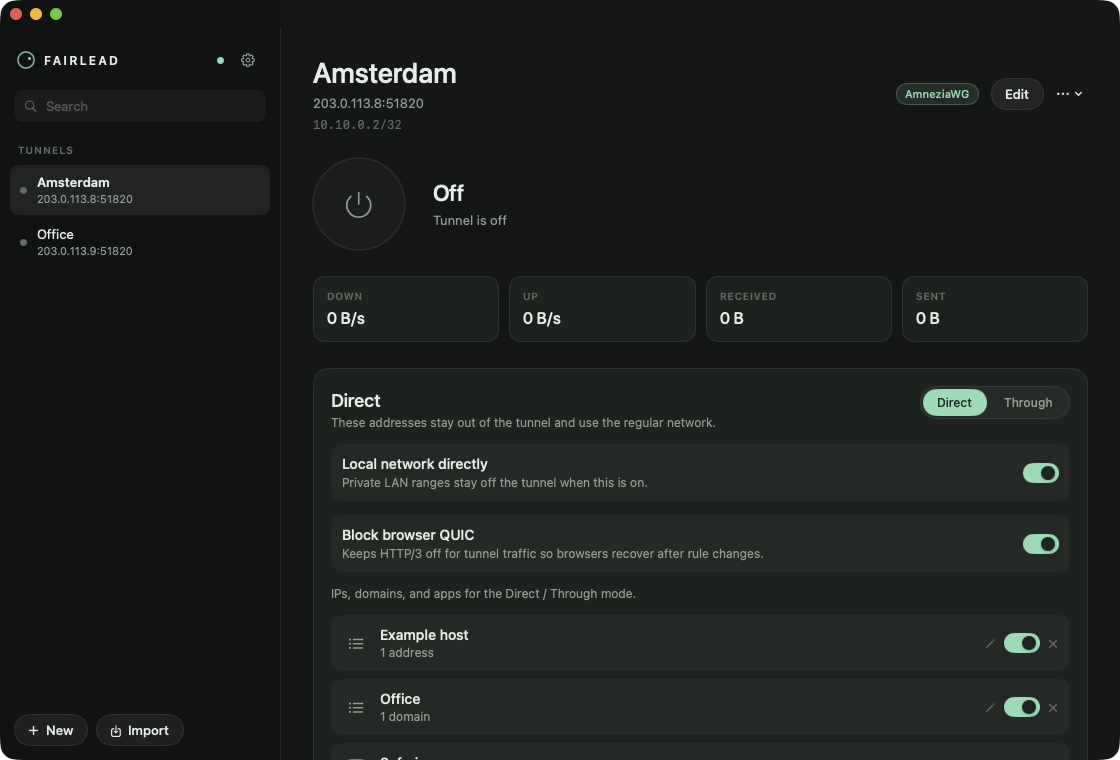
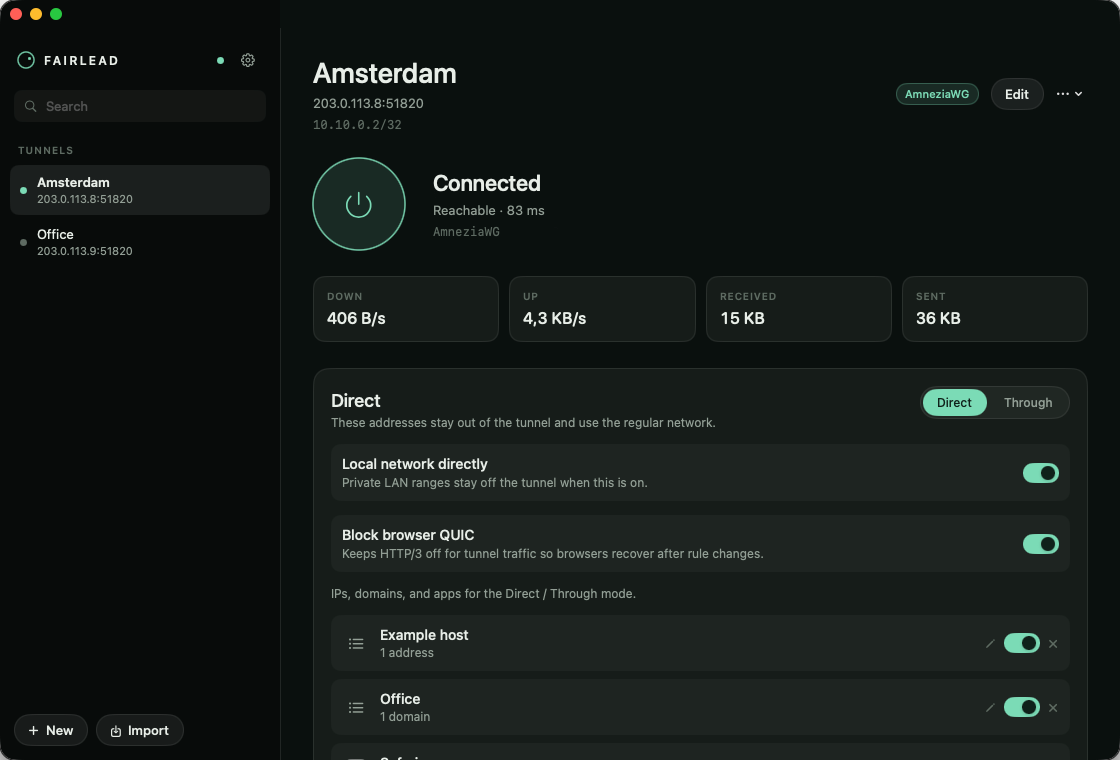
Landing page tweaks and screenshots update

diff --git a/docs/index.html b/docs/index.html
@@ -102,11 +102,27 @@
         }
 
         /* ---------- top bar ---------- */
+        .site-bar {
+            position: sticky;
+            top: 0;
+            z-index: 40;
+            background: transparent;
+            border-bottom: 1px solid transparent;
+            transition: background 180ms var(--ease), border-color 180ms var(--ease), backdrop-filter 180ms var(--ease);
+        }
+
+        .site-bar.is-stuck {
+            background: rgba(11, 13, 12, 0.78);
+            -webkit-backdrop-filter: blur(14px) saturate(1.2);
+            backdrop-filter: blur(14px) saturate(1.2);
+            border-bottom-color: var(--line);
+        }
+
         .bar {
             display: flex;
             align-items: center;
             justify-content: space-between;
-            padding: 22px 0 8px;
+            padding: 22px 0 14px;
         }
 
         .bar-mark {
@@ -254,35 +270,31 @@
         }
 
         .hero-stage {
+            /* pocket: clip to ~half the window so the rest tucks under Features */
+            --shot-w: min(100vw - 40px, 1240px);
+            --shot-h: calc(var(--shot-w) * 760 / 1120);
             position: relative;
             margin: 0 calc(50% - 50vw);
             width: 100vw;
+            max-height: calc(var(--shot-h) * 2 / 3);
             overflow: hidden;
         }
 
-        .hero-stage::before,
+        /* shade into the pocket lip */
         .hero-stage::after {
             content: "";
             position: absolute;
             left: 0;
             right: 0;
-            height: 96px;
+            bottom: 0;
+            height: 88px;
             z-index: 2;
             pointer-events: none;
-        }
-
-        .hero-stage::before {
-            top: 0;
-            background: linear-gradient(to bottom, var(--bg), transparent);
-        }
-
-        .hero-stage::after {
-            bottom: 0;
-            height: 140px;
-            background: linear-gradient(to top, var(--bg) 18%, transparent);
+            background: linear-gradient(to top, rgba(11, 13, 12, 0.92), transparent);
         }
 
         .hero-shot {
+            position: relative;
             width: min(100%, 1280px);
             margin: 0 auto;
             padding: 0 20px;
@@ -290,15 +302,18 @@
 
         .hero-shot img {
             width: 100%;
-            border-radius: var(--radius) var(--radius) 0 0;
             border: 1px solid var(--line);
-            border-bottom: 0;
-            box-shadow: 0 40px 80px rgba(0, 0, 0, 0.45);
+            border-radius: var(--radius);
+            background: var(--bg-elev);
+            box-shadow:
+                0 4px 12px rgba(0, 0, 0, 0.25),
+                0 28px 64px -12px rgba(0, 0, 0, 0.55);
         }
 
         /* ---------- sections ---------- */
         section {
             padding: 88px 0;
+            scroll-margin-top: 72px;
         }
 
         .section-kicker {
@@ -329,9 +344,14 @@
 
         /* ---------- feature strip ---------- */
         .features {
+            position: relative;
+            z-index: 3;
             border-top: 1px solid var(--line);
             border-bottom: 1px solid var(--line);
-            background: linear-gradient(180deg, rgba(18, 22, 20, 0.55), transparent);
+            /* solid lip so the clipped shot reads as tucked under this panel */
+            background:
+                linear-gradient(180deg, var(--bg) 0%, var(--bg) 72px, transparent 220px),
+                linear-gradient(180deg, rgba(18, 22, 20, 0.55), transparent);
         }
 
         .feature-list {
@@ -402,7 +422,8 @@
         }
 
         .frame {
-            border-radius: var(--radius);
+            /* closer to macOS window corners than the hero radius */
+            border-radius: 10px;
             border: 1px solid var(--line);
             background: var(--bg-elev);
             overflow: hidden;
@@ -640,9 +661,9 @@
         }
     </style>
 </head>
-<body>
-    <div class="wrap">
-        <header class="bar">
+<body id="top">
+    <header class="site-bar">
+        <div class="wrap bar">
             <a class="bar-mark" href="#top" aria-label="Fairlead home">
                 <img src="icon.png" width="36" height="36" alt="">
                 <span>Fairlead</span>
@@ -650,17 +671,18 @@
             <nav class="bar-nav" aria-label="Primary">
                 <a href="#features">Features</a>
                 <a href="#product">Product</a>
+                <a href="#download">Download</a>
                 <a class="btn btn-secondary ghost" href="https://github.com/razor-4eg/fairlead">GitHub</a>
             </nav>
-        </header>
-    </div>
+        </div>
+    </header>
 
-    <main id="top">
+    <main>
         <section class="hero">
             <div class="wrap">
                 <h1 class="brand">Fair<em>lead</em></h1>
-                <p class="lede">Choose what rides the tunnel.</p>
-                <p class="sub">WireGuard and AmneziaWG for macOS and Windows — import a config, connect, and keep the rest of the network yours.</p>
+                <p class="lede">Choose what goes through the tunnel.</p>
+                <p class="sub">WireGuard and AmneziaWG client for macOS and Windows. Import a config, connect, and decide what uses the tunnel.</p>
                 <div class="cta">
                     <a class="btn btn-primary" href="https://github.com/razor-4eg/fairlead/releases">
                         <svg viewBox="0 0 16 16" aria-hidden="true" fill="currentColor">
@@ -683,36 +705,36 @@
         <section class="features" id="features">
             <div class="wrap">
                 <p class="section-kicker reveal">Routing</p>
-                <h2 class="section-title reveal">Honest paths, not cargo-cult VPN theater.</h2>
-                <p class="section-copy reveal">Allowed IPs still define what the peer can carry. Fairlead decides which of your traffic actually uses the tunnel — by address, domain, or running app.</p>
+                <h2 class="section-title reveal">Route by IP, domain, or app.</h2>
+                <p class="section-copy reveal">Pick what goes through the tunnel and what stays on your normal network. Change the list while you’re connected.</p>
 
                 <ol class="feature-list">
                     <li class="reveal">
                         <span class="feature-num">01</span>
                         <div>
                             <h3>WireGuard &amp; AmneziaWG</h3>
-                            <p>One client for both. Import <code>.conf</code>, JSON shares, or Amnezia <code>vpn://</code> links. Amnezia configs show an AmneziaWG badge.</p>
+                            <p>One app for both. Import <code>.conf</code>, JSON, or Amnezia <code>vpn://</code> links — or just drag them onto the window.</p>
                         </div>
                     </li>
                     <li class="reveal">
                         <span class="feature-num">02</span>
                         <div>
                             <h3>Direct / Through</h3>
-                            <p>Exclude a list from the tunnel, or send only that list through it. Rules apply while connected — the engine restarts cleanly so routes stay honest.</p>
+                            <p>Exclude a list from the tunnel, or send only that list through it. Rules apply while connected.</p>
                         </div>
                     </li>
                     <li class="reveal">
                         <span class="feature-num">03</span>
                         <div>
                             <h3>Apps, domains, LAN</h3>
-                            <p>Match programs by path, keep local network off the tunnel, and optionally block QUIC so browsers stay on TCP when you need them to.</p>
+                            <p>Match apps by path, keep local network off the tunnel, block browser QUIC if you need TCP to behave.</p>
                         </div>
                     </li>
                     <li class="reveal">
                         <span class="feature-num">04</span>
                         <div>
-                            <h3>Status you can trust</h3>
-                            <p>Connected means the system path actually uses the tunnel. Live rates, totals, and menu bar / tray so closing the window never drops you.</p>
+                            <h3>Live status</h3>
+                            <p>Rates, totals, and a real Connected state. Close the window — it stays in the menu bar or tray and keeps the tunnel up.</p>
                         </div>
                     </li>
                 </ol>
@@ -722,14 +744,14 @@
         <section id="product">
             <div class="wrap">
                 <p class="section-kicker reveal">Product</p>
-                <h2 class="section-title reveal">Built like a tool, not a brochure.</h2>
-                <p class="section-copy reveal">Configs stay on this computer. Keys never leave. The helper elevates only to manage the tunnel.</p>
+                <h2 class="section-title reveal">Configs stay on this computer.</h2>
+                <p class="section-copy reveal">Keys don’t go anywhere. Admin rights only for the tunnel helper.</p>
 
                 <div class="views">
                     <article class="view reveal">
                         <div class="view-copy">
-                            <h3>Routes that mean something</h3>
-                            <p>Add IPs, domains, or apps. Flip Direct and Through without rewriting the peer config. Each rule can sleep without being deleted.</p>
+                            <h3>Routes</h3>
+                            <p>Add IPs, domains, or apps. Flip Direct / Through without rewriting the peer config. Disable a rule without deleting it.</p>
                         </div>
                         <div class="frame">
                             <img src="screenshots/routes.png" width="1120" height="760" alt="Fairlead routes panel with Direct mode, local network, and app rules" loading="lazy">
@@ -738,8 +760,8 @@
 
                     <article class="view reveal">
                         <div class="view-copy">
-                            <h3>Configs as fields or text</h3>
-                            <p>Edit the tunnel as structured fields, or drop into the raw WireGuard / AmneziaWG text when you want the full surface.</p>
+                            <h3>Config editor</h3>
+                            <p>Edit as fields or as raw WireGuard / AmneziaWG text.</p>
                         </div>
                         <div class="frame">
                             <img src="screenshots/config.png" width="1120" height="760" alt="Fairlead config editor showing interface fields and AmneziaWG options" loading="lazy">
@@ -748,8 +770,8 @@
 
                     <article class="view reveal">
                         <div class="view-copy">
-                            <h3>Quiet defaults</h3>
-                            <p>Open at login, start hidden, pick a default tunnel, set the language. Eight locales plus Auto that follows the system.</p>
+                            <h3>Settings</h3>
+                            <p>Open at login, start hidden, default tunnel, language (Auto or fixed).</p>
                         </div>
                         <div class="frame">
                             <img src="screenshots/settings.png" width="1120" height="760" alt="Fairlead settings for login, language, and default tunnel" loading="lazy">
@@ -763,14 +785,14 @@
             <div class="wrap">
                 <div class="get reveal">
                     <p class="section-kicker">Get Fairlead</p>
-                    <h2 class="section-title">Download the build for your machine.</h2>
-                    <p class="get-note">Unzip and run. First connect installs a helper with administrator rights; later connects do not ask again. Builds from GitHub are not notarized — Gatekeeper / SmartScreen may warn once.</p>
+                    <h2 class="section-title">Download</h2>
+                    <p class="get-note">Unzip and run. First connect asks for admin to install the helper; after that it just works. Builds aren’t notarized, so Gatekeeper / SmartScreen may warn once.</p>
 
                     <div class="platform-row">
                         <div class="platform">
                             <div>
                                 <h3>macOS 15+</h3>
-                                <p>Move Fairlead.app to Applications. Helper returns after reboot.</p>
+                                <p>Move Fairlead.app to Applications.</p>
                             </div>
                             <a class="btn btn-primary" href="https://github.com/razor-4eg/fairlead/releases">macOS release</a>
                         </div>
@@ -888,12 +910,48 @@ function softParallax() {
 
 /*
 ==================
+ bindStickyBar
+==================
+*/
+function bindStickyBar() {
+    const bar = document.querySelector('.site-bar');
+
+    if (!bar) {
+        return;
+    }
+
+    let ticking = false;
+
+    function update() {
+        // paint the lip only after the page has actually moved
+        if ((window.scrollY || 0) > 8) {
+            bar.classList.add('is-stuck');
+        } else {
+            bar.classList.remove('is-stuck');
+        }
+
+        ticking = false;
+    }
+
+    window.addEventListener('scroll', function () {
+        if (!ticking) {
+            window.requestAnimationFrame(update);
+            ticking = true;
+        }
+    }, { passive: true });
+
+    update();
+}
+
+/*
+==================
  main
 ==================
 */
 function main() {
     revealOnScroll();
     softParallax();
+    bindStickyBar();
 }
 
 main();
